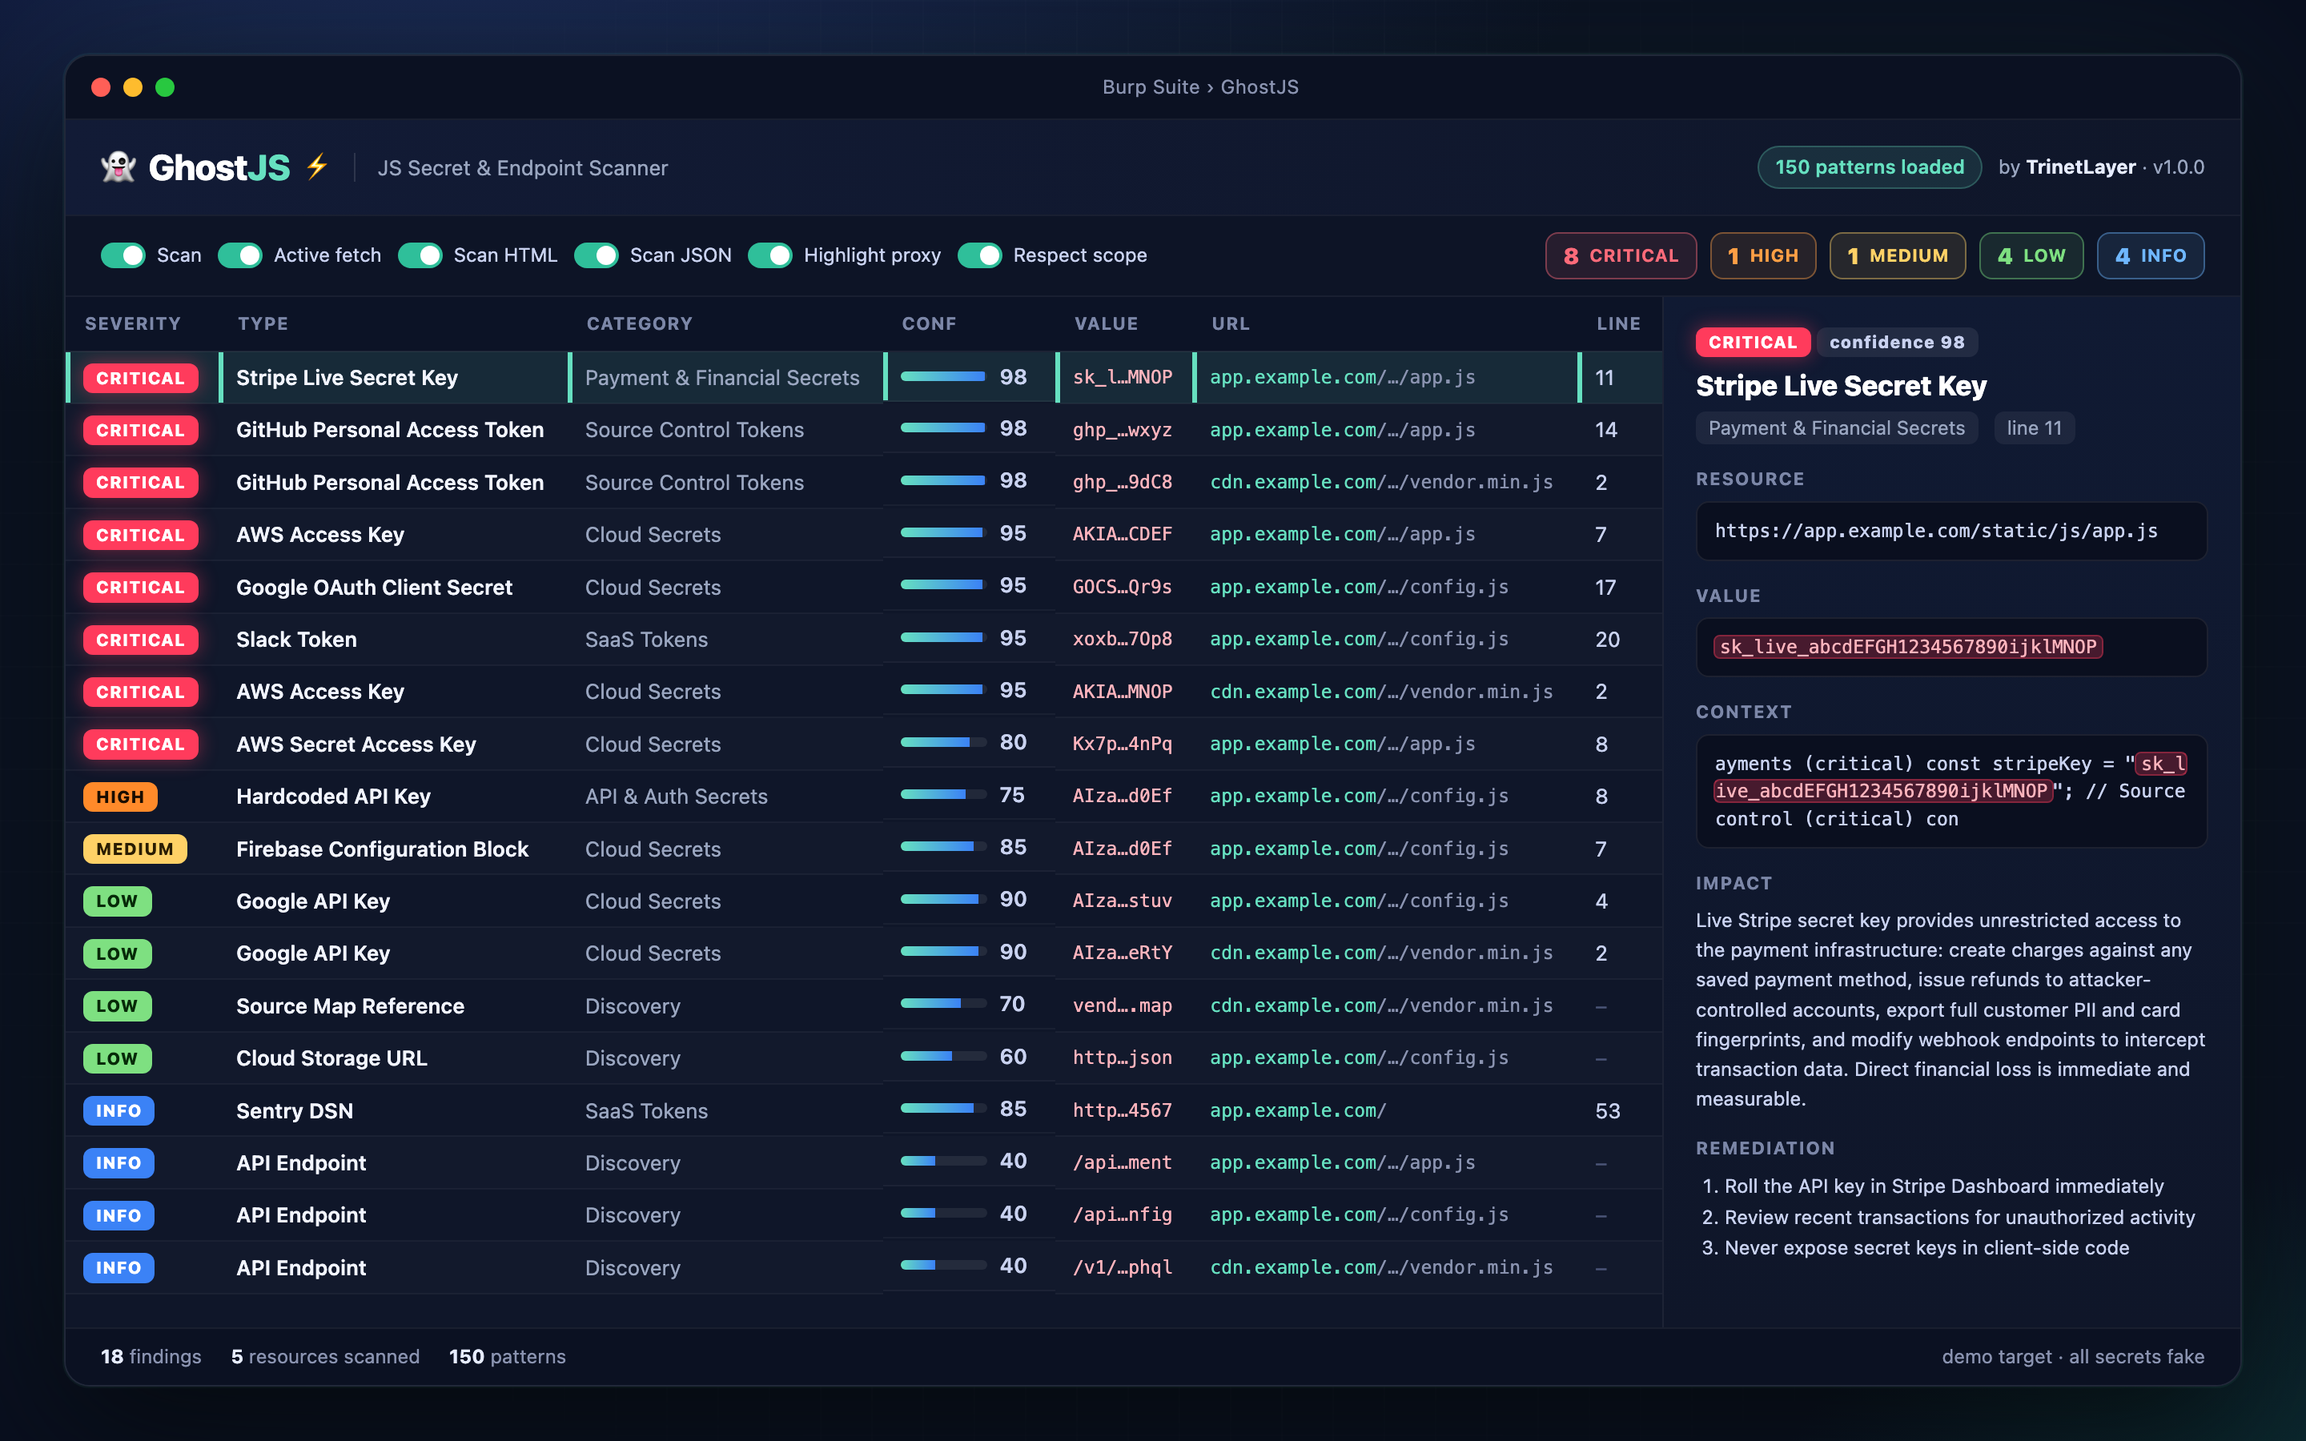
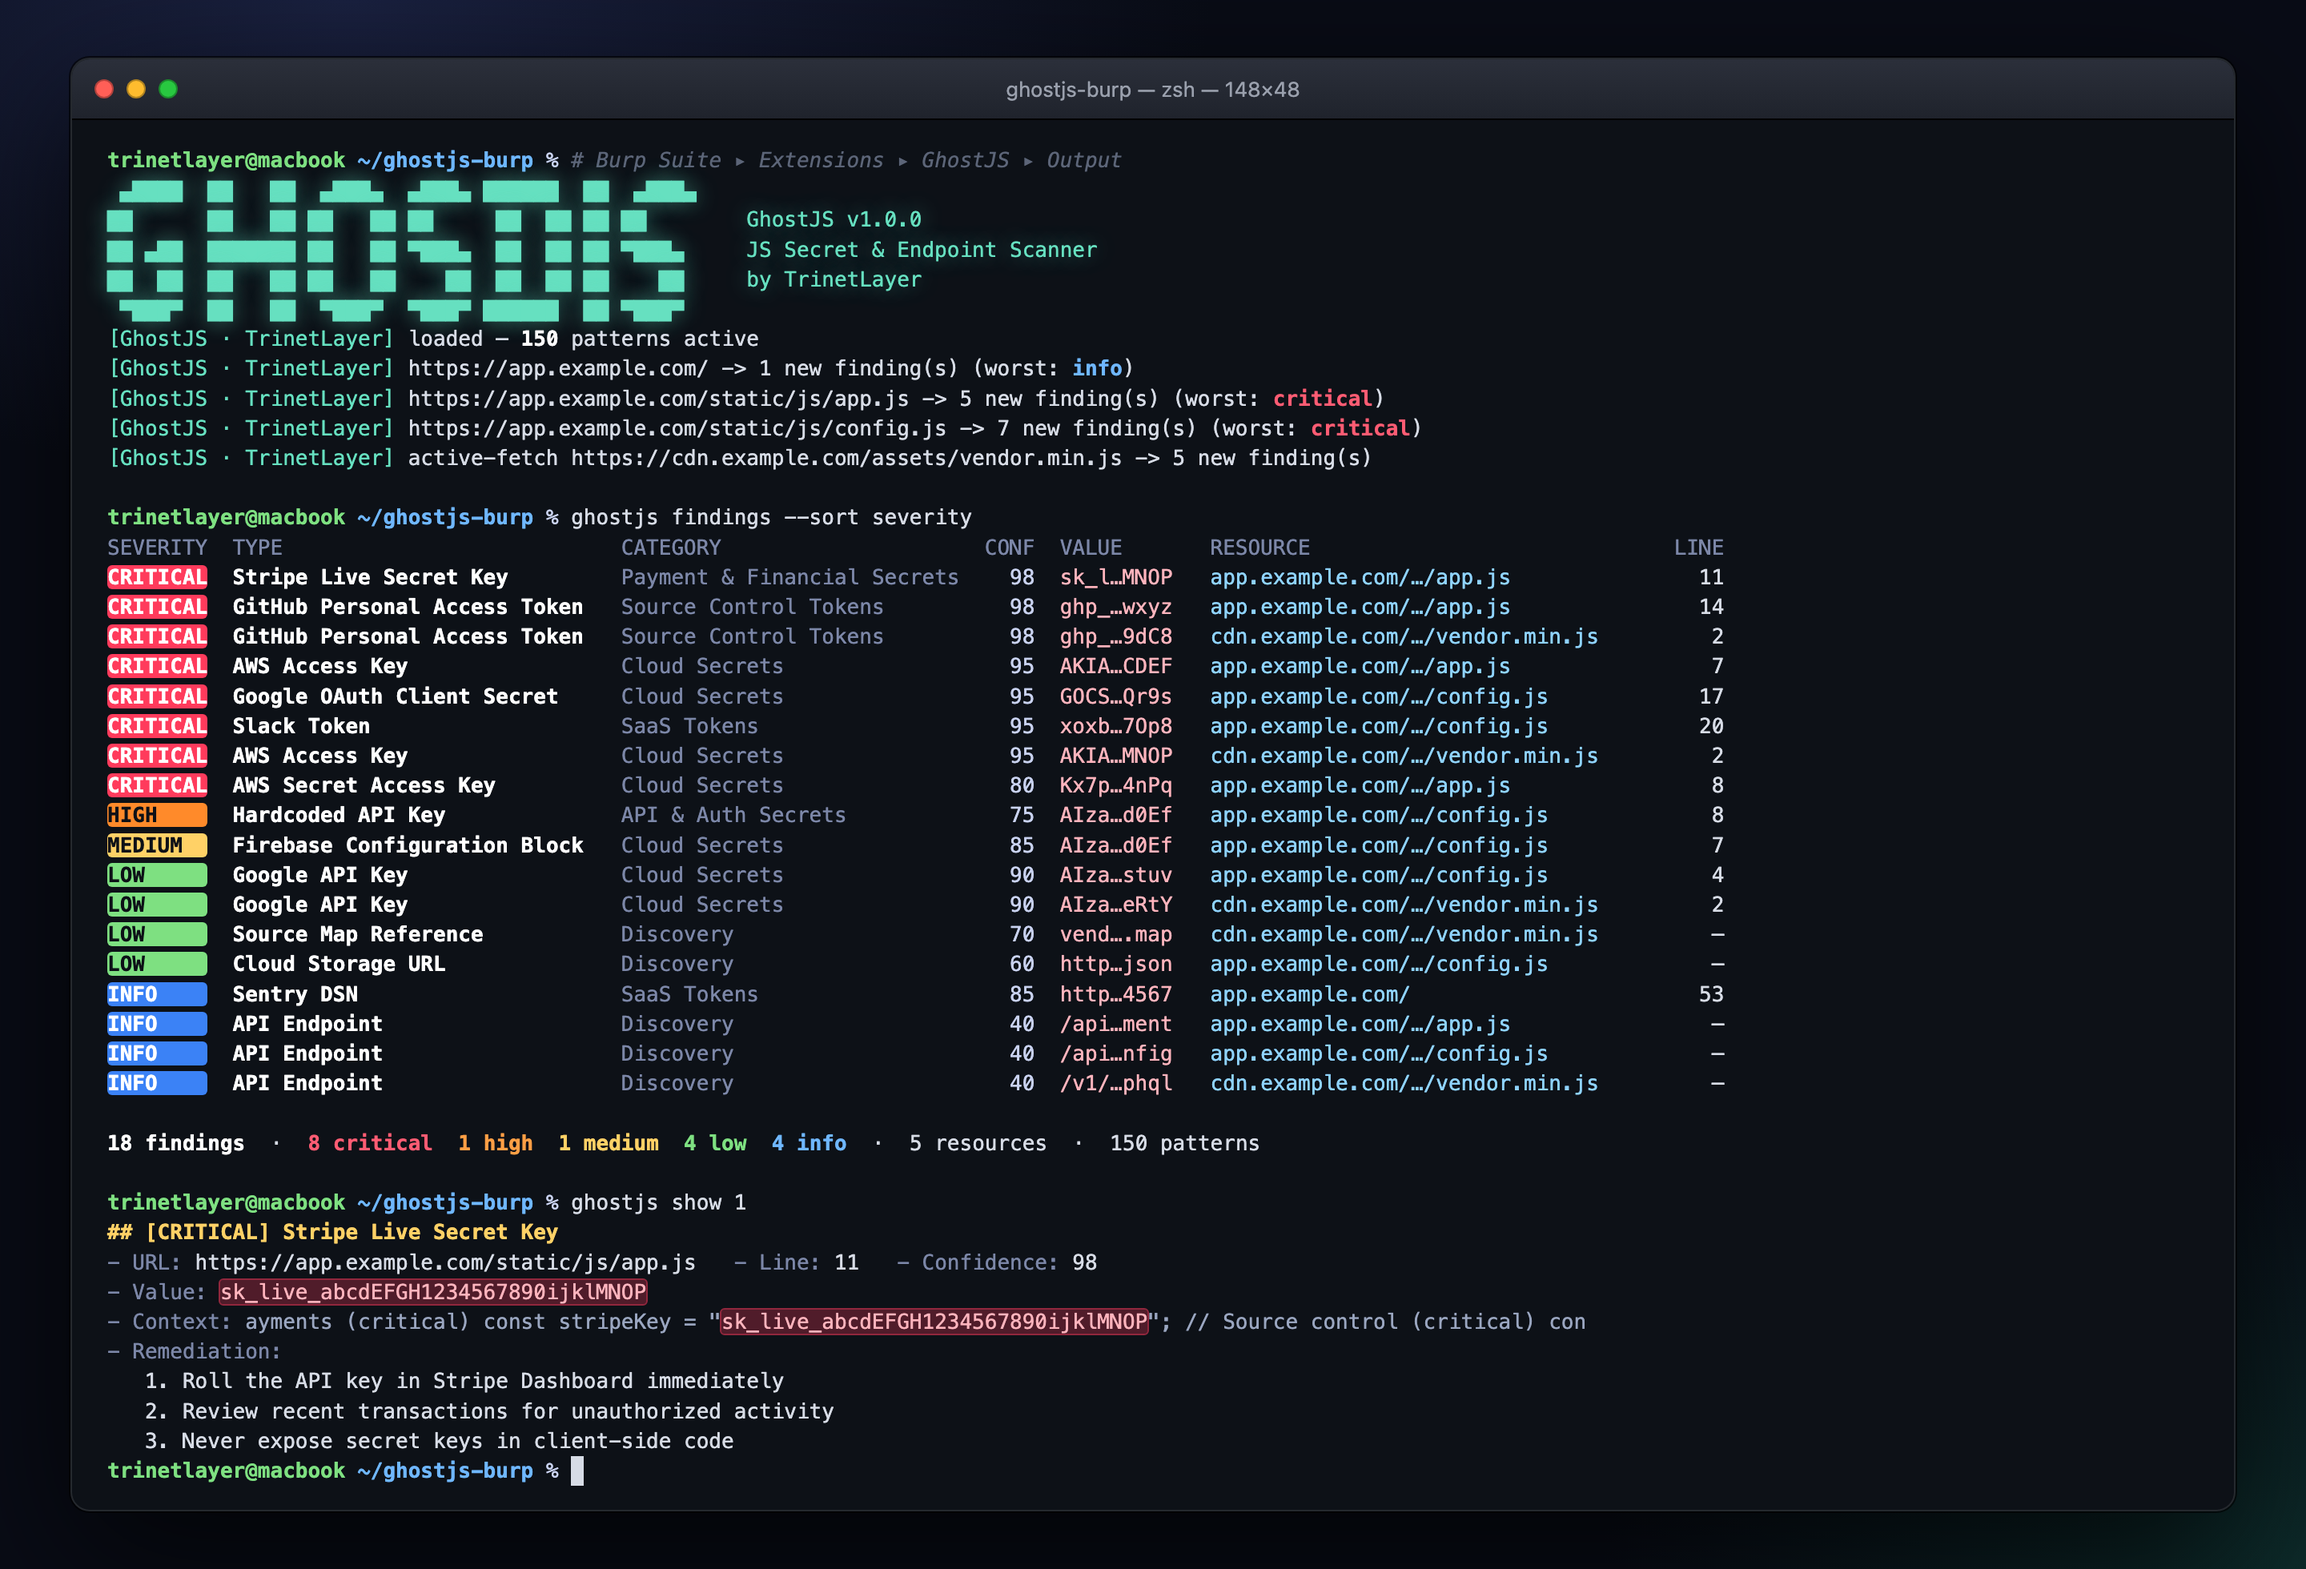
README: terminal-style findings image

Changed region(s): [[0.0312, 0.0, 0.9688, 0.9644], [0.8438, 0.9333, 0.9688, 0.9644]]

diff --git a/README.md b/README.md
@@ -37,7 +37,7 @@ as you browse.
 > Load the extension, browse a target, and the **GhostJS** tab fills with findings while the
 > matching Proxy-history rows light up by severity.
 
-![GhostJS findings view: 18 findings from a demo target sorted by severity, with the Stripe live key selected and its value, context, impact and remediation shown on the right](docs/ghostjs-findings.png)
+![GhostJS output in a terminal: the extension banner and Burp output log, 18 findings from a demo target sorted by severity, and the Stripe live key detail with value, context and remediation](docs/ghostjs-findings.png)
 
 Real GhostJS output from the bundled [test target](#try-it-in-2-minutes) (all secrets fake,
 hostnames swapped for `example.com`):
@@ -47,8 +47,10 @@ hostnames swapped for `example.com`):
 - **Findings table** — one row per unique secret with type, category, confidence (0–100),
   masked value, source URL, and line number. The table never prints a full secret
   (`sk_l…MNOP`); the full value only appears in the detail pane when you click a row.
-- **Detail pane** — the selected Stripe live key with its exact line, the surrounding code with
-  the match highlighted, a plain-English impact statement, and numbered remediation steps.
+- **Burp output log** — the top block is what GhostJS prints to Burp's Extensions output
+  pane: patterns loaded, then one line per scanned resource with the worst severity found.
+- **Finding detail** — the Stripe live key with its exact line, the surrounding code with the
+  match highlighted, and numbered remediation steps (same text as the Markdown export).
 - **Discovery rows** (LOW/INFO) — source-map reference, S3 URL, and API paths pulled from the
   JS. These are references, not probed endpoints; see [Scope](#scope--responsible-use).
 - **Zero noise** — `js/placeholders.js` (AWS doc samples, a Stripe *publishable* key, i18n
